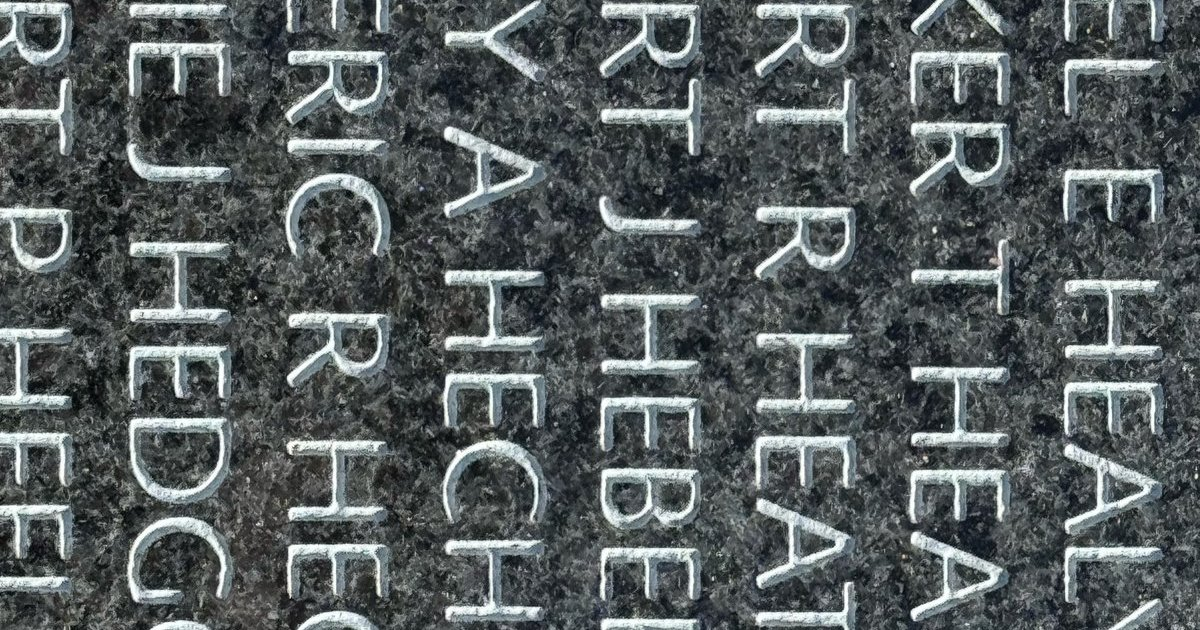
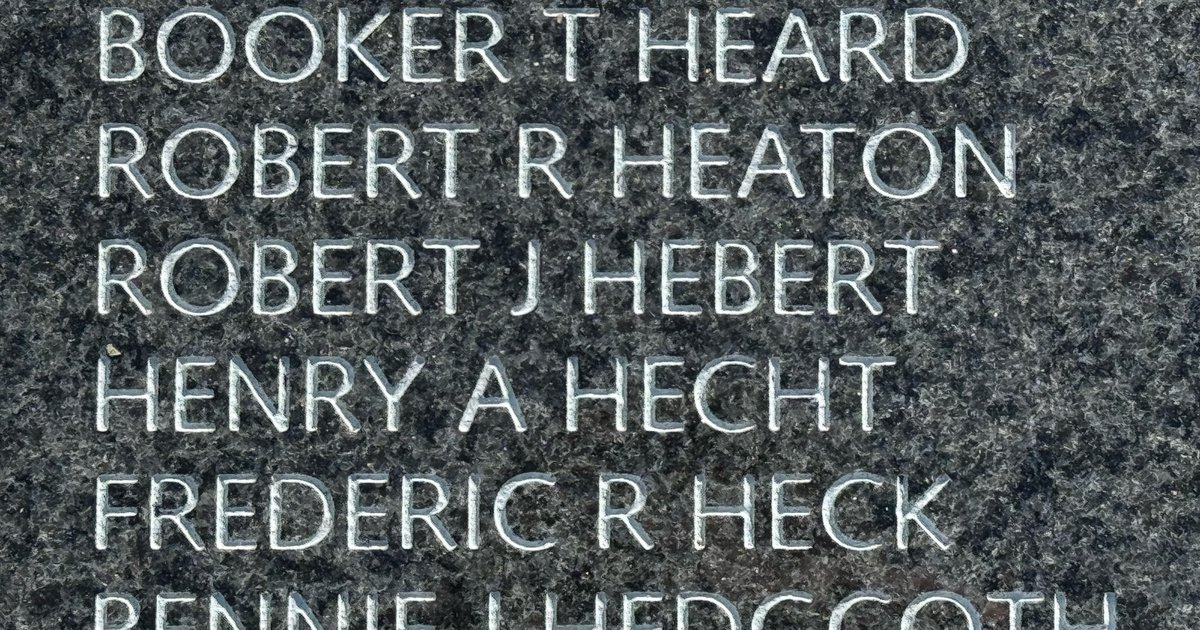
Fix Robert wall photo orientation (rotate 90 deg CCW)
EXIF orientation was lost when metadata was stripped, leaving the
engraved names sideways. Physically rotate pixels so ROBERT J HEBERT
reads upright, and regenerate webp and og:image derivatives.

diff --git a/index.html b/index.html
@@ -122,7 +122,7 @@
           <figure class="memorial-photo">
             <picture>
               <source type="image/webp" srcset="images/robert-wall.webp">
-              <img src="images/robert-wall.jpg" alt="Close-up of the Korean War Veterans Memorial Wall of Remembrance showing the engraved name ROBERT J HEBERT." width="1200" height="1600" loading="lazy">
+              <img src="images/robert-wall.jpg" alt="Close-up of the Korean War Veterans Memorial Wall of Remembrance showing the engraved name ROBERT J HEBERT." width="1600" height="1200" loading="lazy">
             </picture>
             <figcaption>ROBERT J HEBERT on the Wall of Remembrance. <span class="credit">Photographed by a visitor at the Korean War Veterans Memorial, Washington, DC.</span></figcaption>
           </figure>
